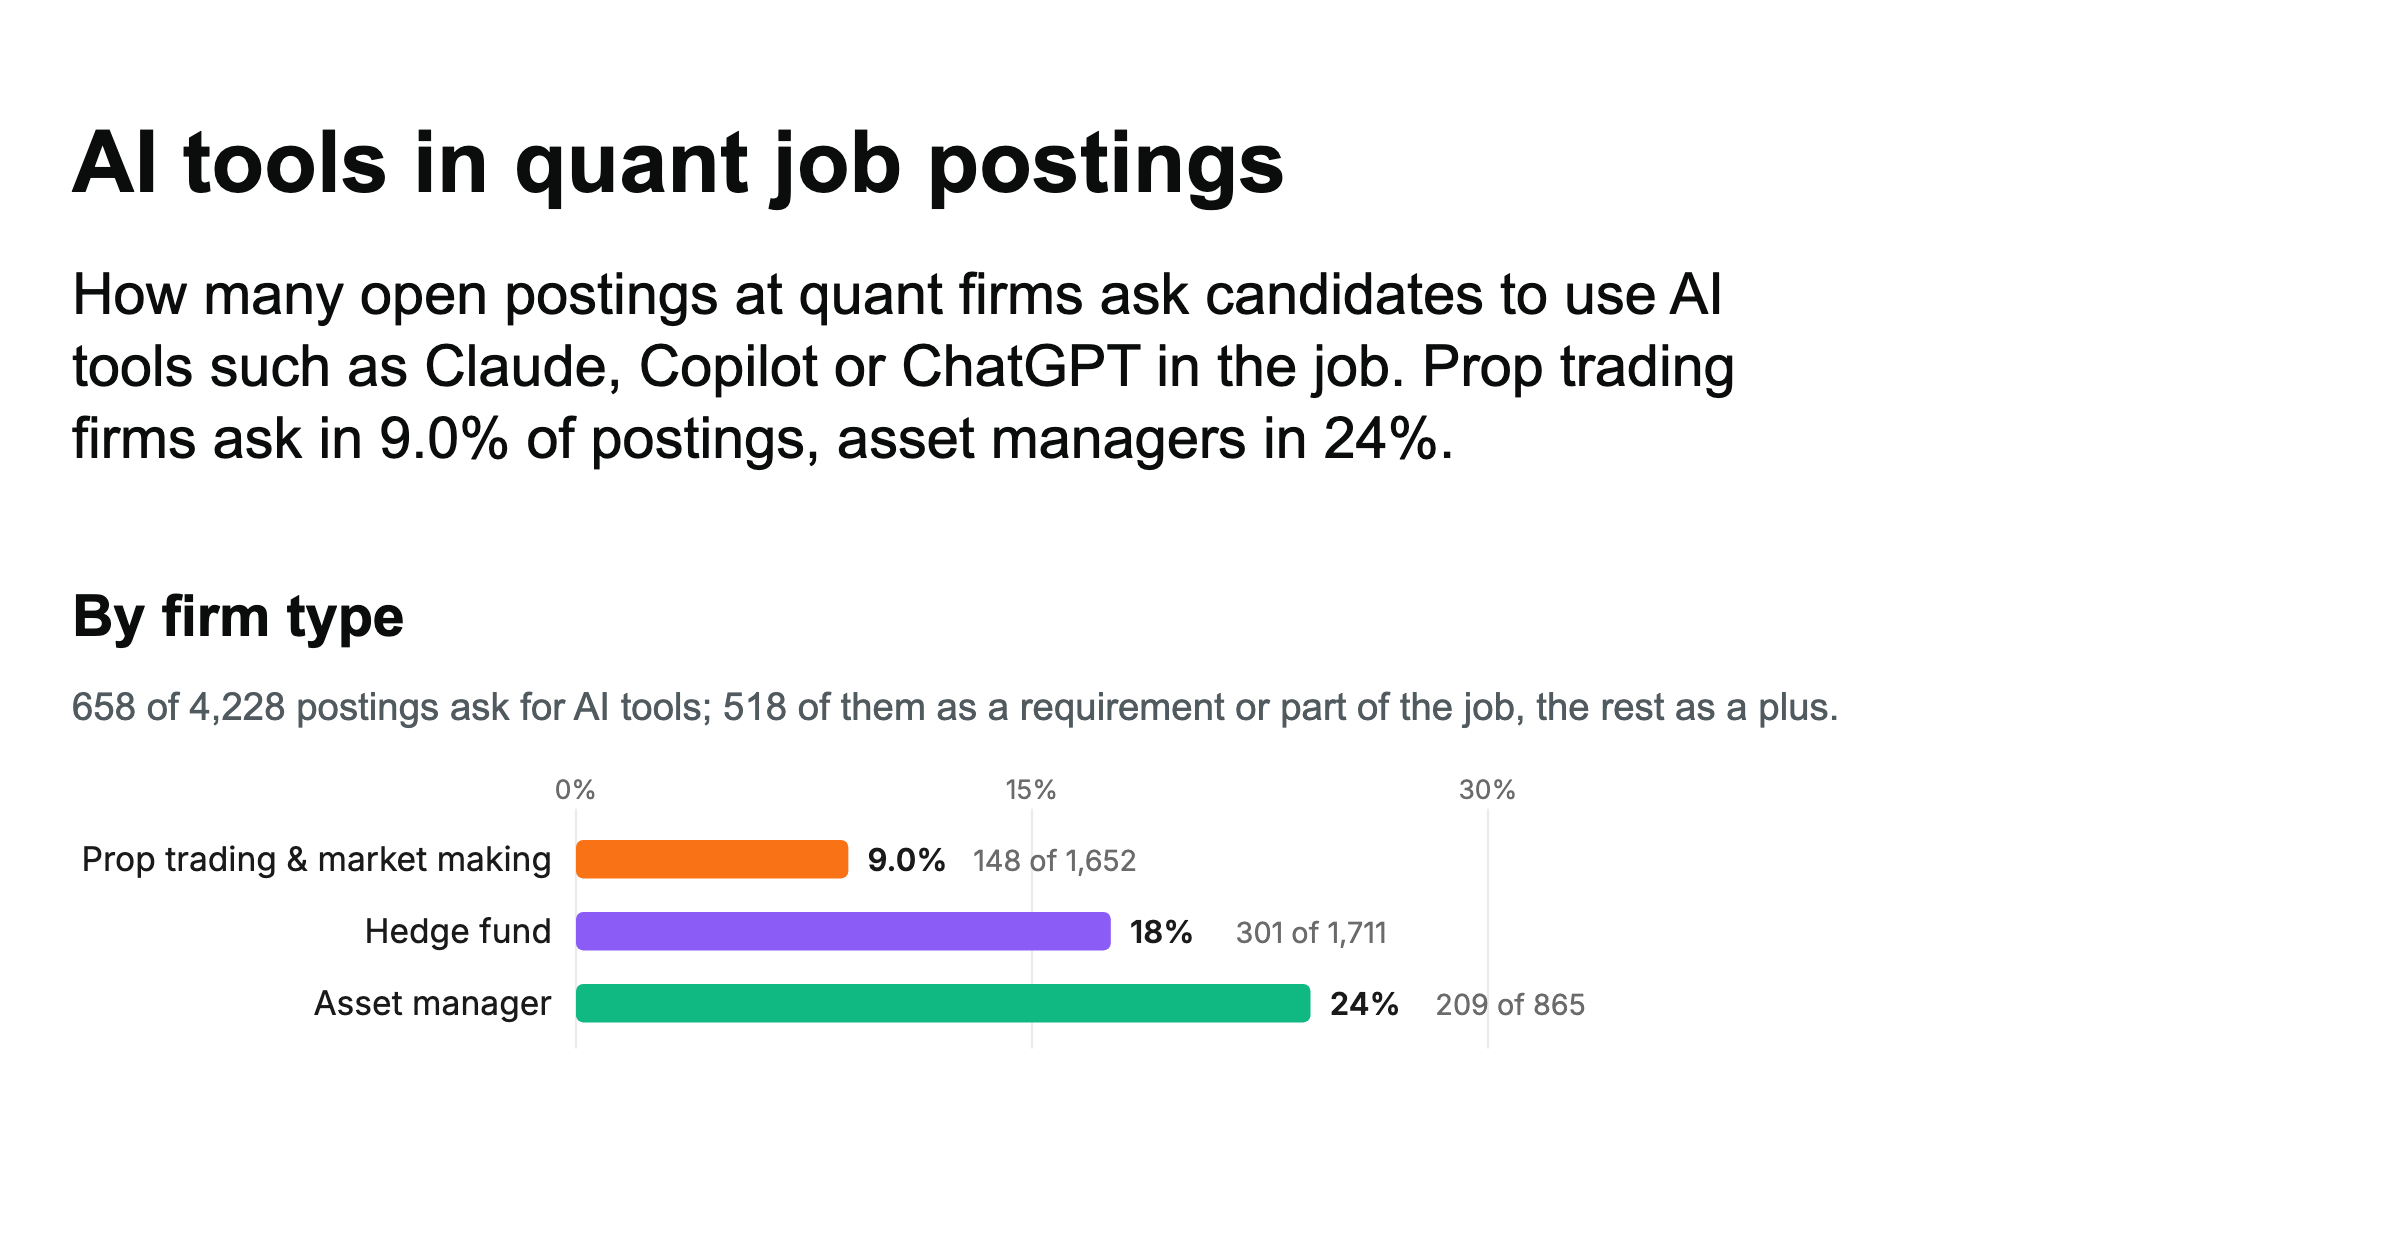
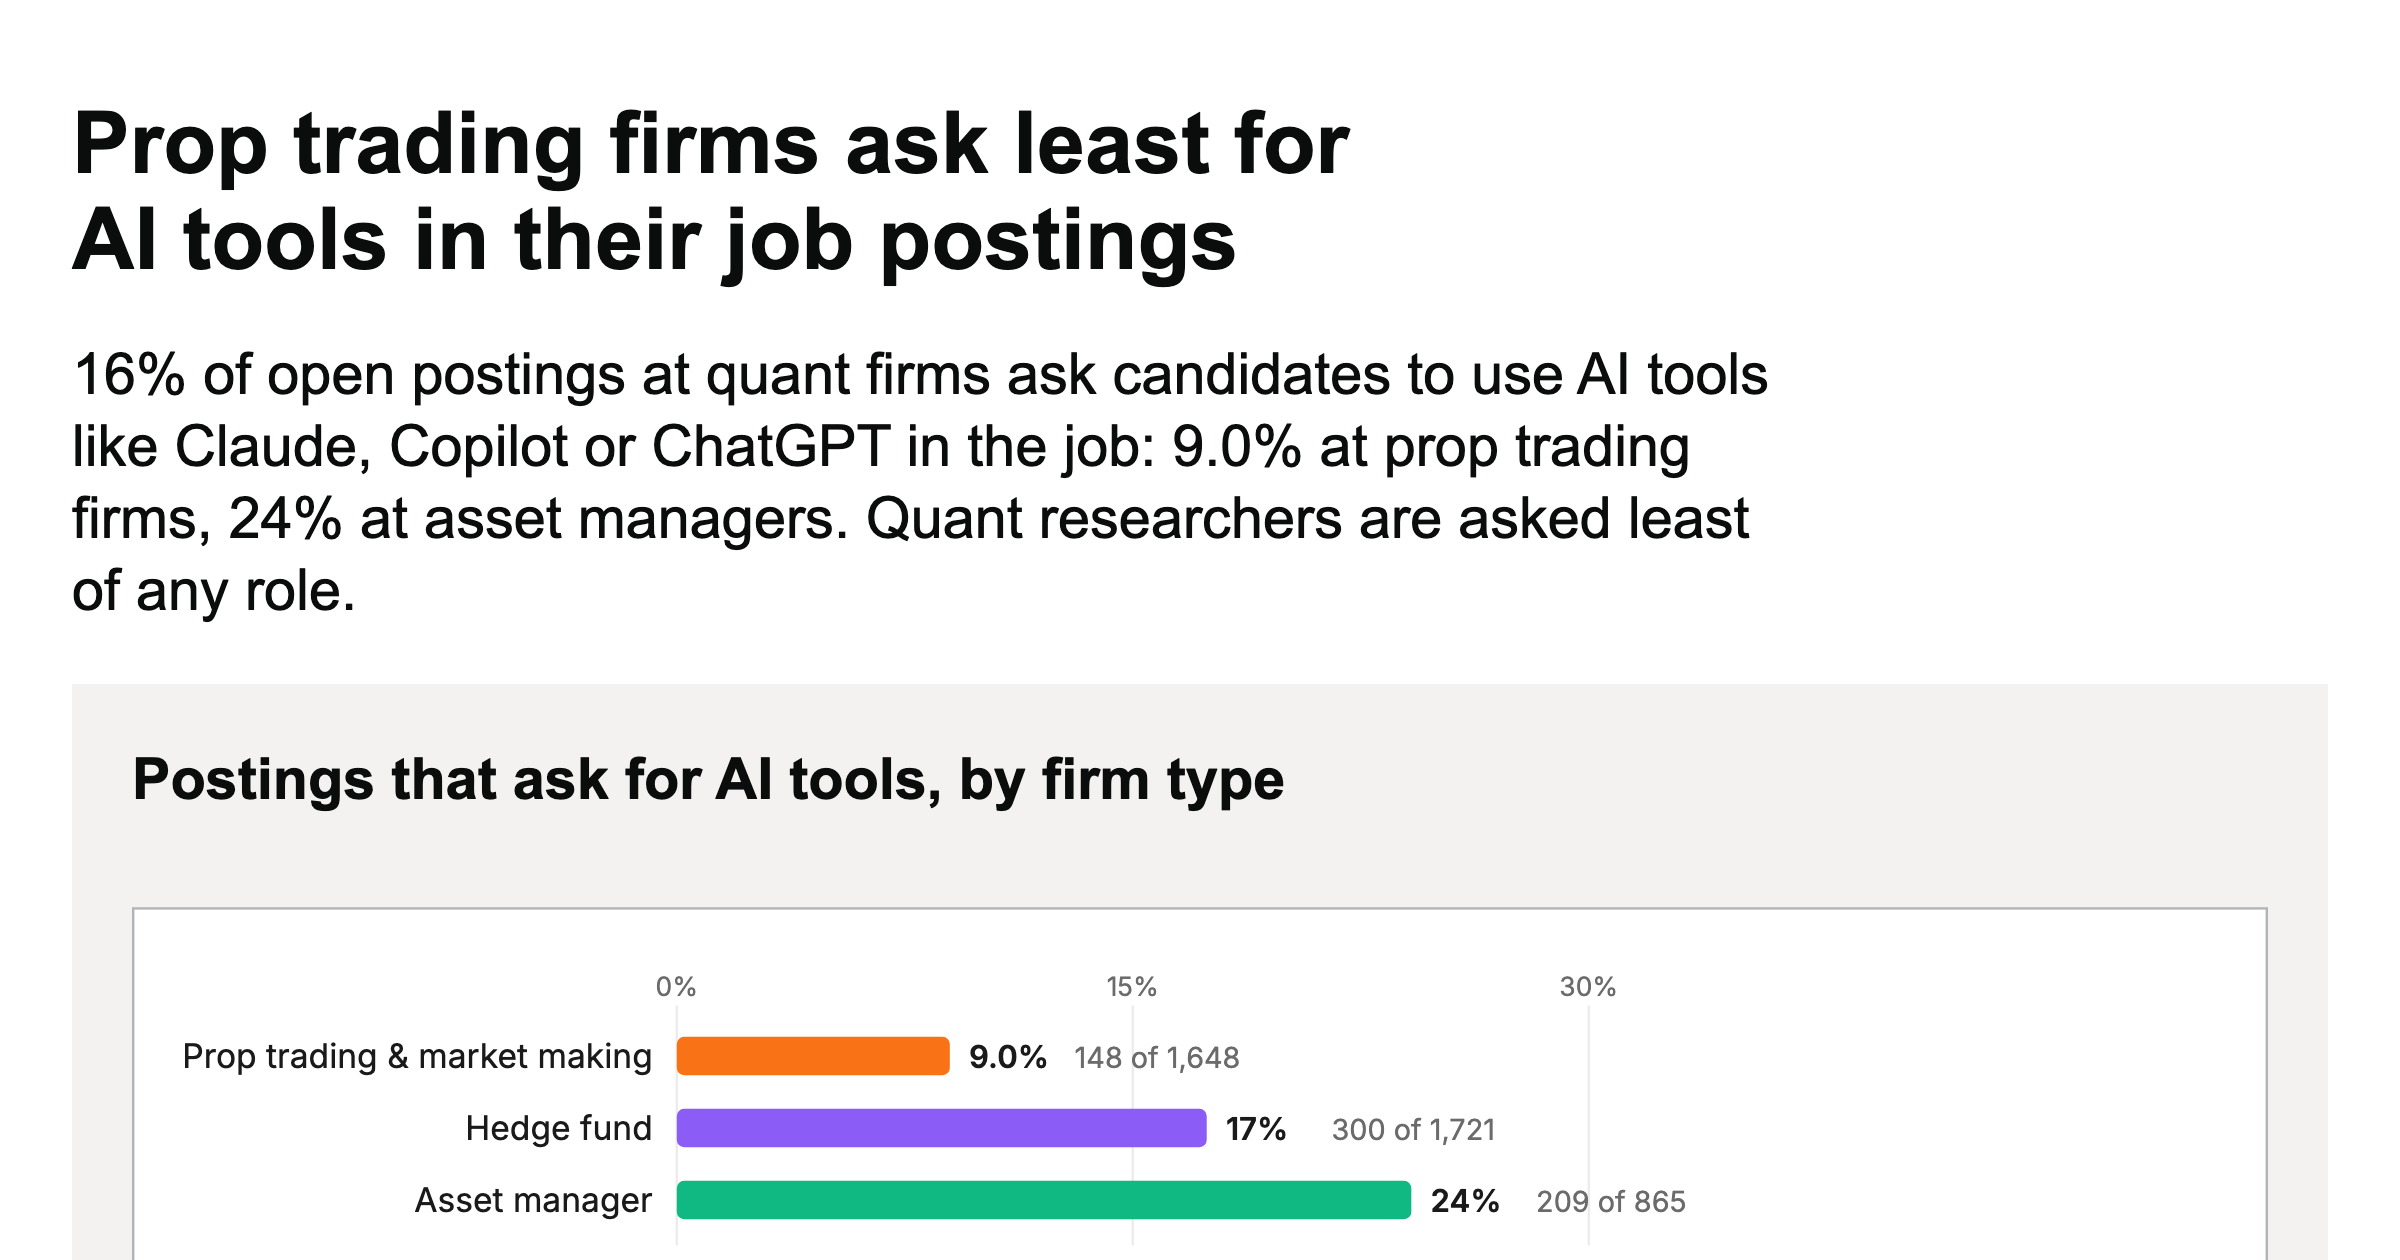
AI tools page: insight layout with kit chart cards and About the data
A finding as the headline, each chart in a kit ChartCard with a neutral title and the finding in its description, purpose and tools as bars, and a short About the data, as on the other dataset sites' insight pages.

diff --git a/src/renderPage.jsx b/src/renderPage.jsx
@@ -1,6 +1,21 @@
 import React from "react";
-import { renderToString } from "react-dom/server";
+import { renderToStaticMarkup, renderToString } from "react-dom/server";
+import { ChartCard, SectionHeading } from "./kit";
 import App from "./App";
 export { parseUrl } from "./App";
 export { readJobData } from "./jobData";
 export function renderPage(initialPage) { return renderToString(<App initialPage={initialPage} />); }
+
+// The kit's chart card and section heading as static markup, for the prerendered insight pages. `body` and `footer`
+// are trusted HTML strings built by the prerender script.
+export function renderChartCard({ id, title, description, footer, body }) {
+  return renderToStaticMarkup(
+    <ChartCard id={id} title={title} description={description} footer={footer && <span dangerouslySetInnerHTML={{ __html: footer }} />}>
+      <div dangerouslySetInnerHTML={{ __html: body }} />
+    </ChartCard>,
+  );
+}
+
+export function renderSectionHeading(props) {
+  return renderToStaticMarkup(<SectionHeading {...props} />);
+}
